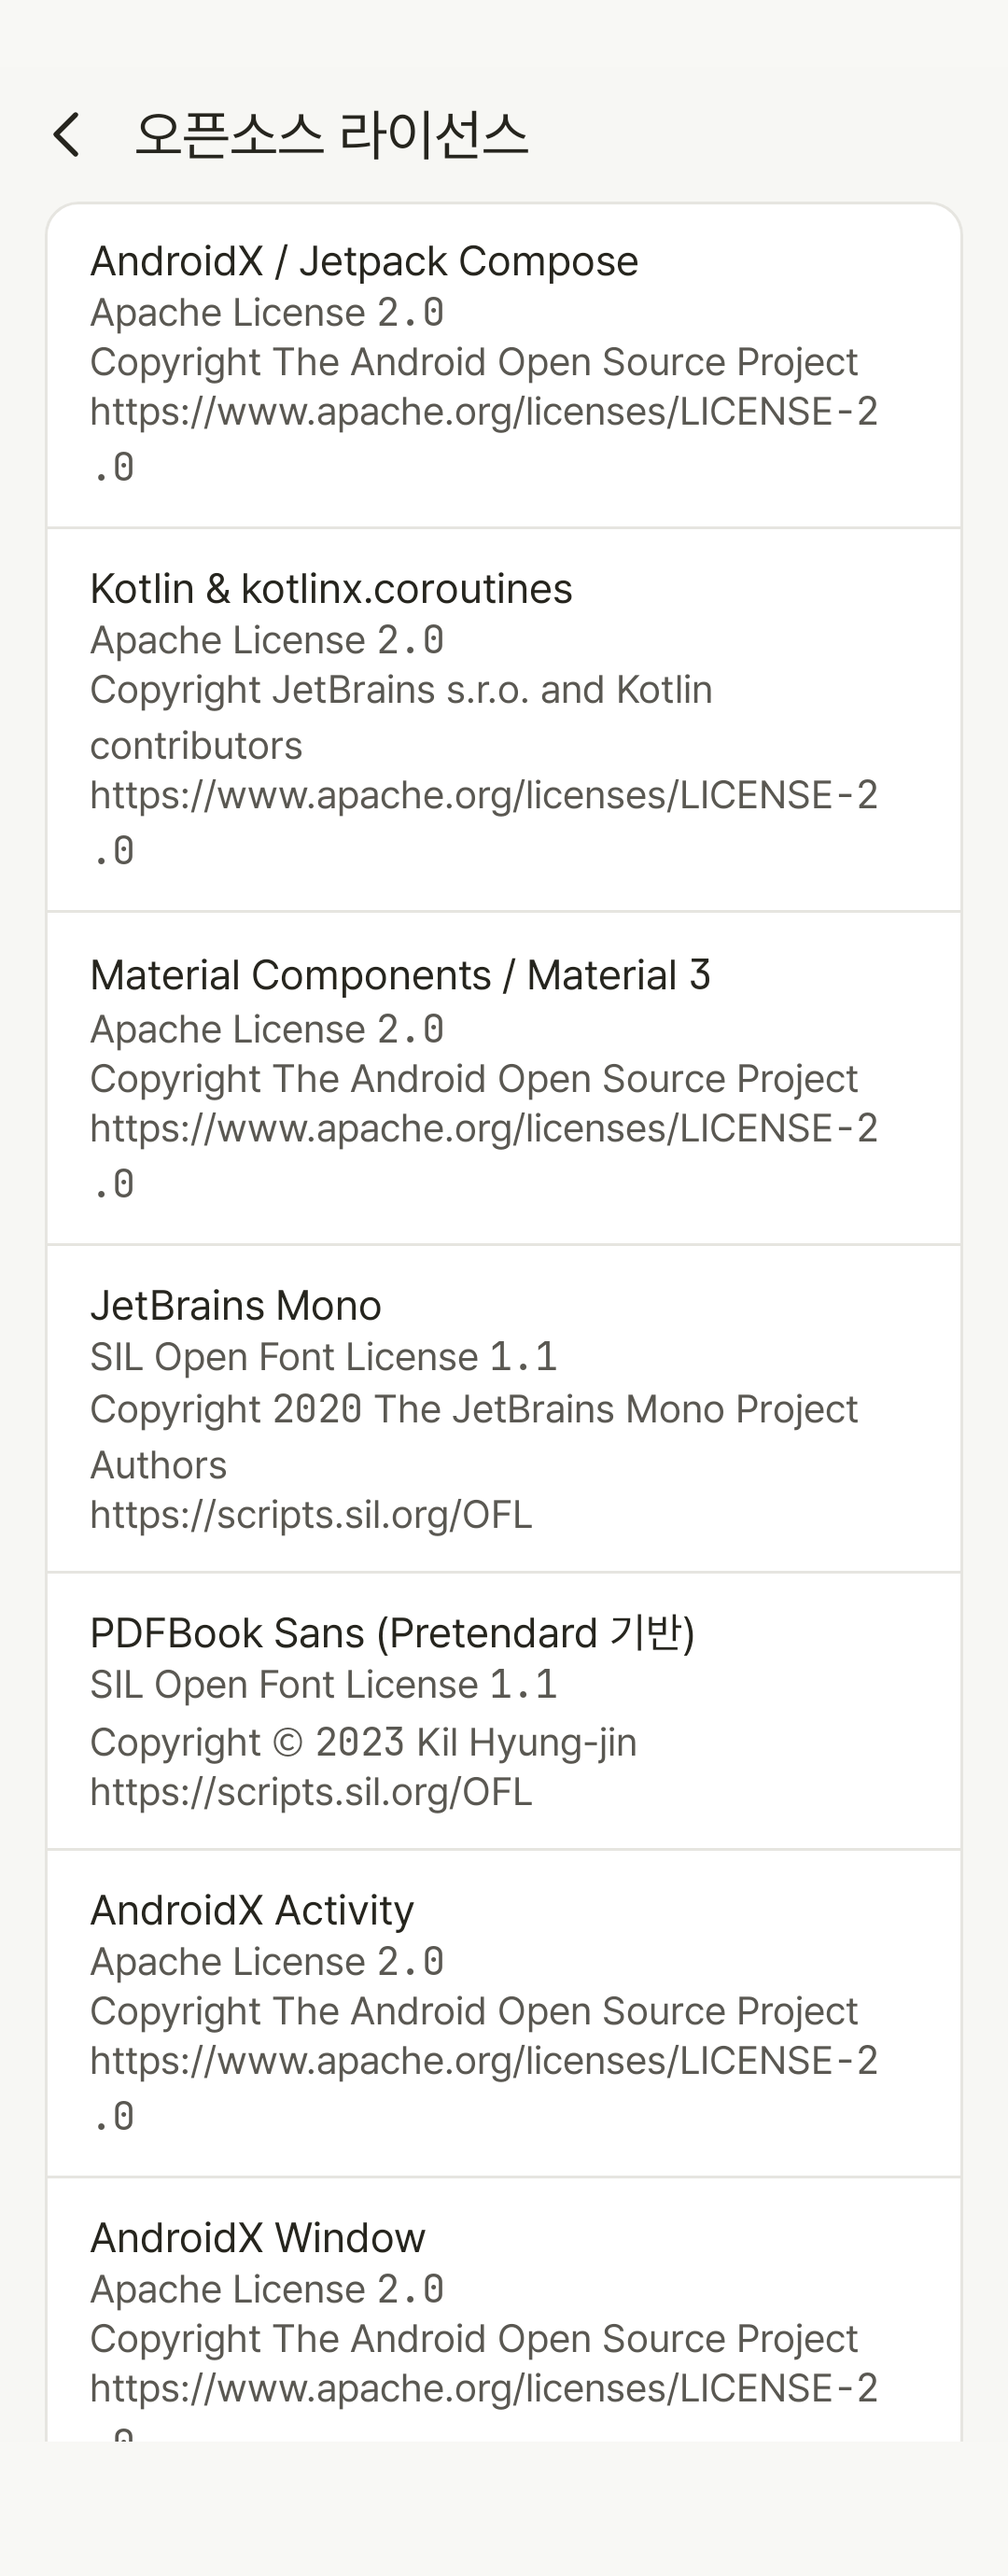
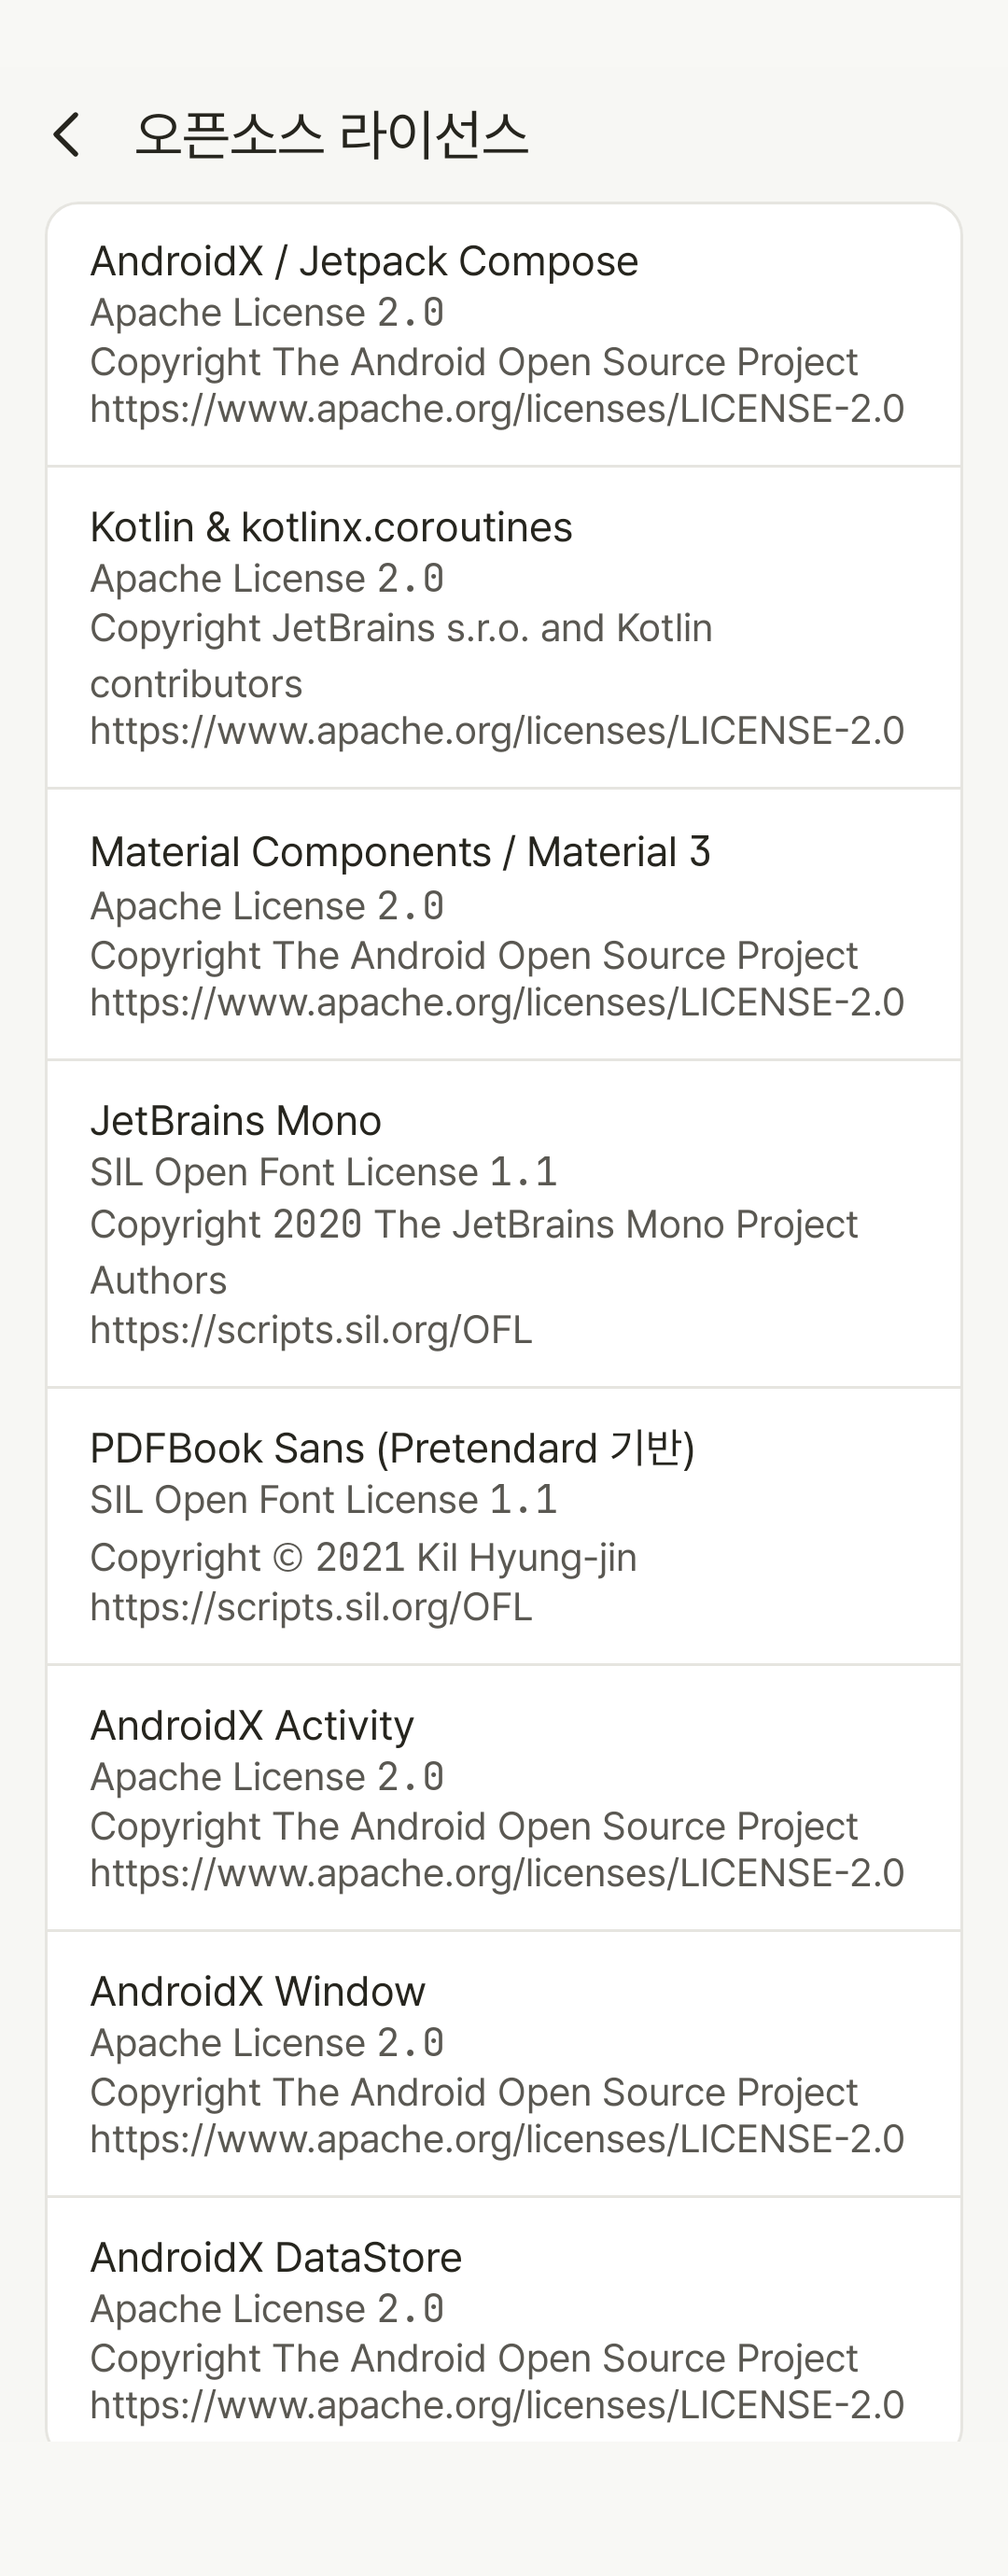
fix(settings): match font license year

Changed region(s): [[0.0917, 0.1558, 0.8861, 0.9659], [0.7028, 0.1558, 0.8861, 0.187]]

diff --git a/app/src/test/java/org/parkjw/apps/pdfbook/settings/OssCopyrightYearTest.kt b/app/src/test/java/org/parkjw/apps/pdfbook/settings/OssCopyrightYearTest.kt
@@ -1,0 +1,55 @@
+package org.parkjw.apps.pdfbook.settings
+
+import org.junit.Assert.assertEquals
+import org.junit.Assert.assertNotNull
+import org.junit.Assert.assertTrue
+import org.junit.Test
+import java.io.File
+import javax.xml.parsers.DocumentBuilderFactory
+
+class OssCopyrightYearTest {
+    private val licenseFiles = mapOf(
+        "oss_pdfbook_sans_copyright" to "licenses/Pretendard-OFL.txt",
+        "oss_jetbrains_mono_copyright" to "licenses/JetBrainsMono-OFL.txt",
+    )
+
+    @Test
+    fun ossCopyrightYearsMatchBundledLicenseFiles() {
+        val root = projectRoot()
+        for ((key, path) in licenseFiles) {
+            val file = File(root, path)
+            assertTrue("$path missing", file.isFile)
+            val expectedYear = firstYear(file.readLines().first { it.isNotBlank() })
+            assertNotNull("$path has no year on first line", expectedYear)
+            for (dir in listOf("values", "values-ko", "values-en")) {
+                val values = loadStrings(File(root, "app/src/main/res/$dir/strings_settings.xml"))
+                val text = values[key]
+                assertNotNull("$dir/$key missing", text)
+                assertEquals("$dir/$key year", expectedYear, firstYear(text!!))
+            }
+        }
+    }
+
+    private fun firstYear(text: String): String? = Regex("""\b(19|20)\d{2}\b""").find(text)?.value
+
+    private fun loadStrings(file: File): Map<String, String> {
+        val doc = DocumentBuilderFactory.newInstance().newDocumentBuilder().parse(file)
+        val nodes = doc.getElementsByTagName("string")
+        val values = linkedMapOf<String, String>()
+        for (i in 0 until nodes.length) {
+            val node = nodes.item(i)
+            val name = node.attributes?.getNamedItem("name")?.nodeValue ?: continue
+            values[name] = node.textContent
+        }
+        return values
+    }
+
+    private fun projectRoot(): File {
+        var dir: File? = File(System.getProperty("user.dir") ?: ".").canonicalFile
+        while (dir != null) {
+            if (File(dir, "settings.gradle.kts").isFile) return dir
+            dir = dir.parentFile
+        }
+        throw AssertionError("project root not found")
+    }
+}

diff --git a/app/src/main/java/org/parkjw/apps/pdfbook/settings/OpenSourceLicenses.kt b/app/src/main/java/org/parkjw/apps/pdfbook/settings/OpenSourceLicenses.kt
@@ -145,7 +145,7 @@ fun OpenSourceLicensesScreen(
                                     color = MaterialTheme.colorScheme.onSurfaceVariant,
                                 )
                                 Text(
-                                    text = withNumericSpans(stringResource(entry.url), ossNumericStyle),
+                                    text = stringResource(entry.url),
                                     style = MaterialTheme.typography.bodyMedium,
                                     color = MaterialTheme.colorScheme.onSurfaceVariant,
                                 )
